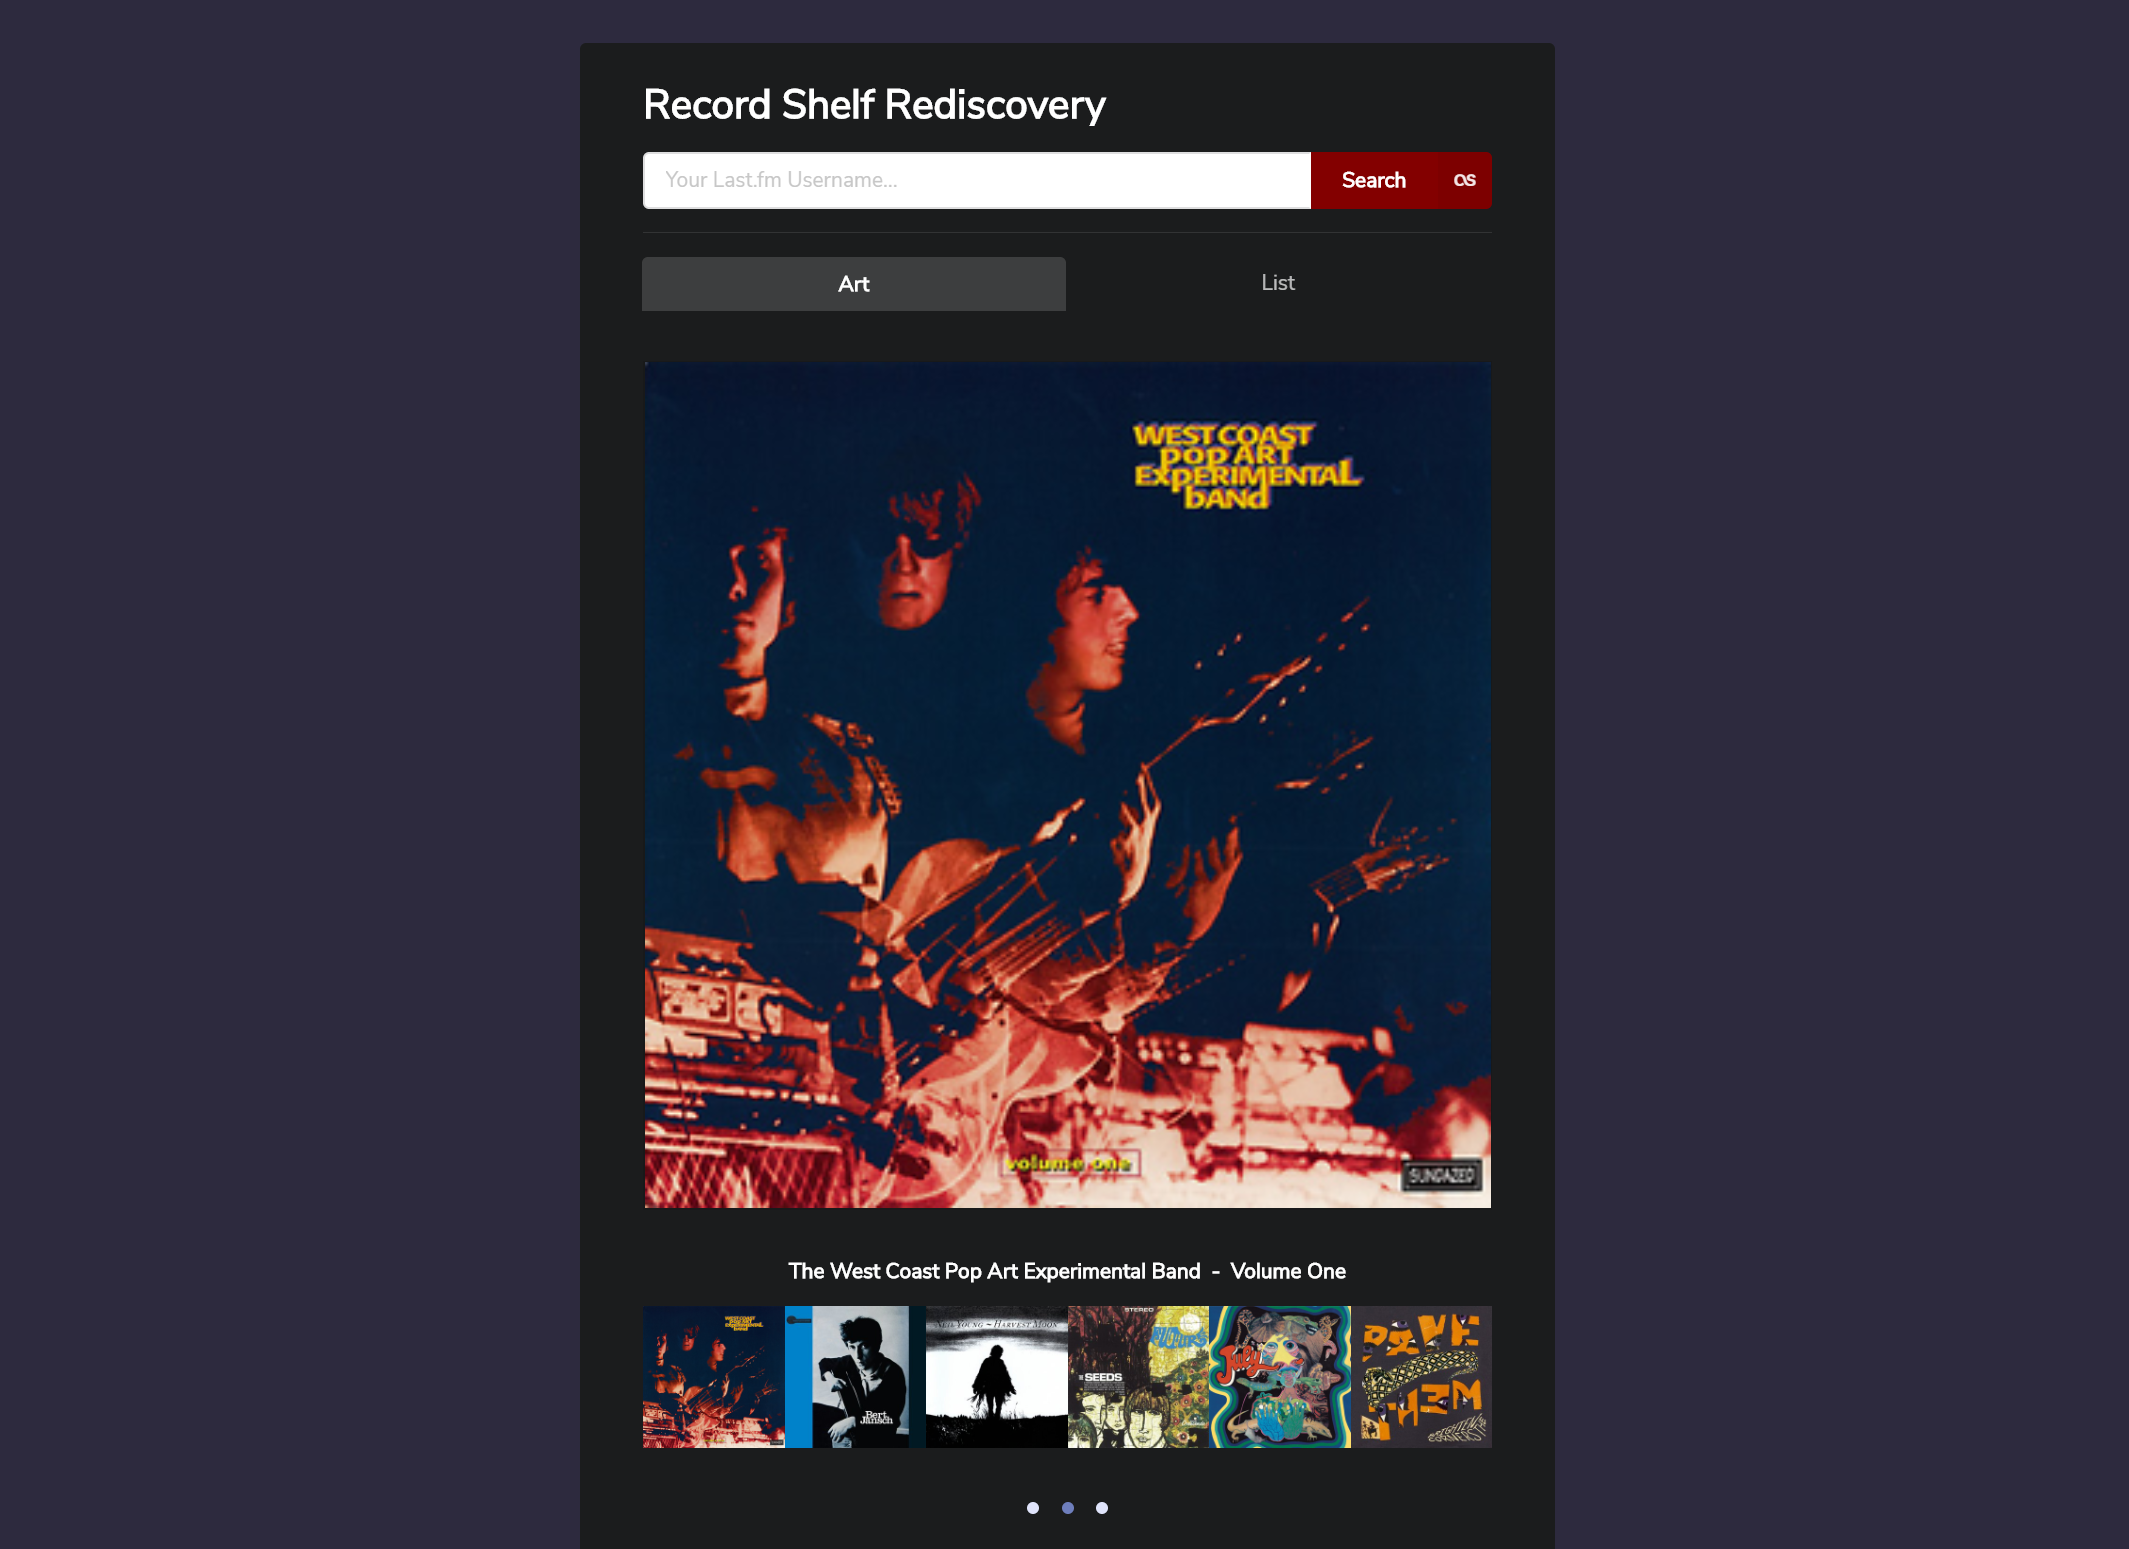
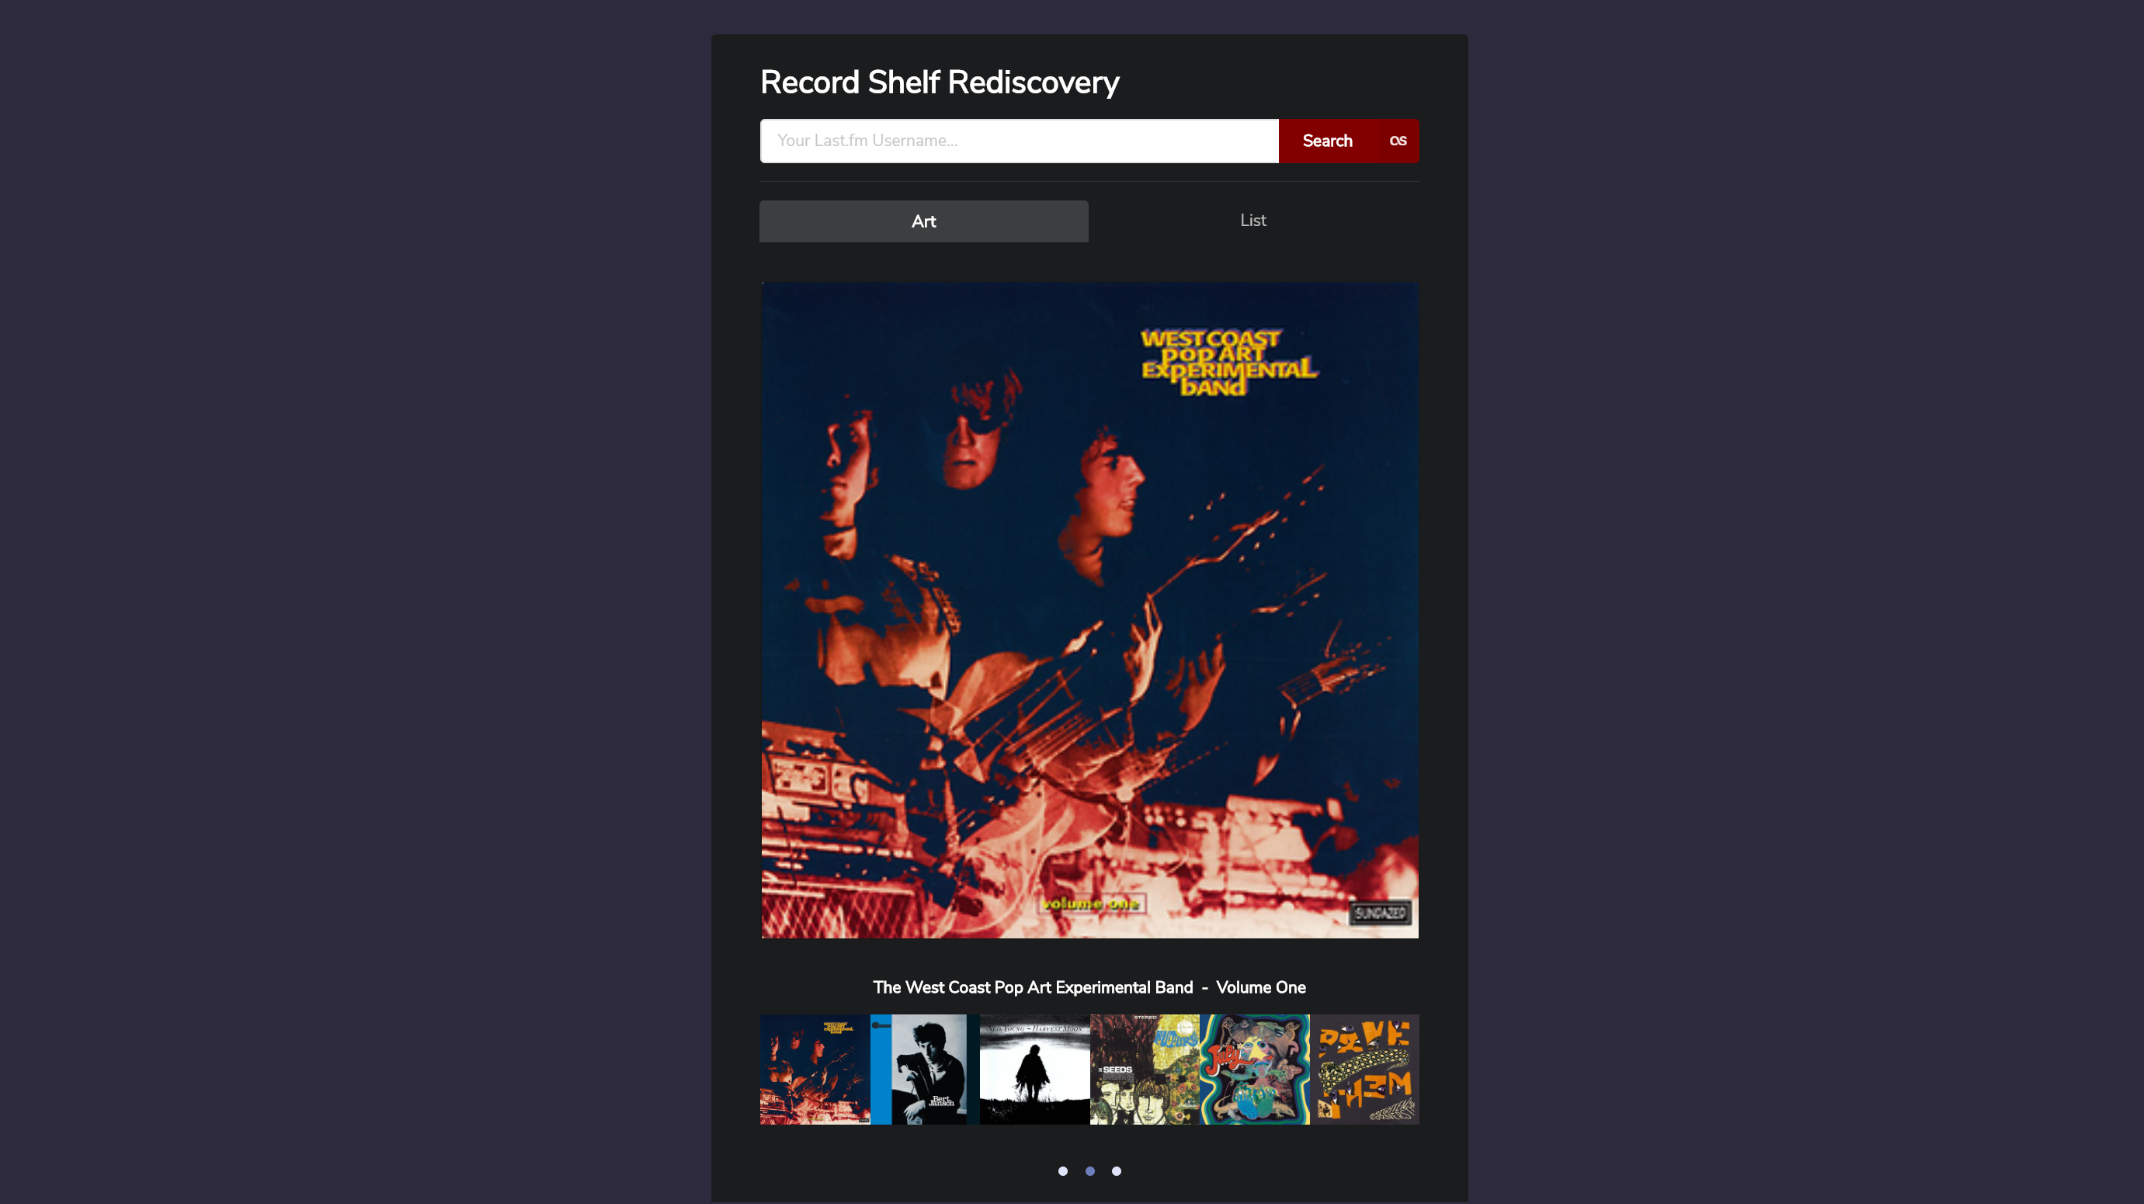
Adjust image hover behaviour. Adjust Music Rediscovery image size.

Changed region(s): [[0.248, 0.0307, 0.744, 1.0], [0.527, 0.2458, 0.651, 0.338], [0.496, 0.1537, 0.527, 0.2151]]

diff --git a/src/data/projects.js b/src/data/projects.js
@@ -4,8 +4,8 @@ export default [
     id: 'recordShelfRediscovery',
     date: '27/04/20',
     description: 'A simple project on the surface, for this React project I gained experience leveraging multiple existing APIs to create an app that is more than the sum of its parts. This has been an invaluable lesson in adapting my approaches to the shape of 3rd party incoming data.',
-    image: 'images/recordShelfRediscovery.png',
-    tech: ['React', 'Spotify API', 'Spotify', 'Web Playback SDK', 'Last.fm API', 'Semantic UI'],
+    image: '/images/recordShelfRediscovery.png',
+    tech: ['React', 'Spotify API', 'Spotify Web Playback SDK', 'Last.fm API', 'Semantic UI'],
     url: 'https://recordshelfrediscovery.herokuapp.com/',
     githubFE: 'https://github.com/tfox121/digitalRecordShelf',
   },
@@ -14,8 +14,8 @@ export default [
     id: 'subredditGame',
     date: '14/04/20',
     description: 'A full stack project using React and Redux with a Node/Express/MongoDB backend. On this project I really fleshed out my React/Redux knowledge as well as learning about WebSockets to allow seamless multiplayer, and LocalStorage to enable primitive session management. It was also my first time using Heroku for deployment.',
-    image: 'images/subredditGame.png',
-    tech: ['React', 'Redux', 'Node', 'Express', 'MongoDB', 'WebSocket'],
+    image: '/images/subredditGame.png',
+    tech: ['React', 'Redux', 'Node', 'Express', 'MongoDB', 'WebSocket', 'Semantic UI'],
     url: 'https://thesubredditgame.herokuapp.com/',
     githubFE: 'https://github.com/tfox121/theSubredditGame',
     githubBE: 'https://github.com/tfox121/theSubredditGameAPI',
@@ -25,7 +25,7 @@ export default [
     id: 'paceCalc',
     date: '20/02/20',
     description: 'A simple React tool I made for my partner after her favourite pace calculator went offline. It helped solidify what I\'d recently learnt in React and allowed me to implement it in a tight project.',
-    image: 'images/paceCalc.png',
+    image: '/images/paceCalc.png',
     tech: ['React', 'JavaScript'],
     url: 'https://tfox121.github.io/paceCalculator/',
     githubFE: 'https://github.com/tfox121/paceCalculator',
@@ -37,7 +37,7 @@ export default [
     id: 'contactForm',
     date: '16/11/19',
     description: 'My original portfolio\'s contact form handler, which I\'m re-using on here! I built a small back-end using AWS API Gateway connected to an AWS Lambda function using the Serverless framework to handle my contact form.',
-    image: 'images/nodeLambda.png',
+    image: '/images/nodeLambda.png',
     tech: ['Node', 'AWS', 'Serverless'],
     url: '',
     githubFE: 'https://github.com/tfox121/contactFormLambda',
@@ -47,7 +47,7 @@ export default [
     id: 'choroplethMap',
     date: '02/10/19',
     description: 'Part of the freeCodeCamp curriculum, this was one of the hardest data visualisation projects.',
-    image: 'images/choroplethMap.png',
+    image: '/images/choroplethMap.png',
     tech: ['d3', 'JavaScript'],
     url: 'https://tfox121.github.io/choroplethMap/',
     githubFE: 'https://github.com/tfox121/choroplethMap',
@@ -58,7 +58,7 @@ export default [
     id: 'anonMessageBoard',
     date: '21/09/19',
     description: 'Part of the freeCodeCamp curriculum this project helped me get a handle on http routing and REST conventions to build a basic API. I also built out a number of automated tests with Mocha/Chai and learnt how to use Helmet.js to protect my sites.',
-    image: 'images/anonMessageBoard.png',
+    image: '/images/anonMessageBoard.png',
     tech: ['Node', 'Express', 'MongoDB', 'Mocha', 'Helmet'],
     url: 'https://anonymous-message-board-api.herokuapp.com/',
     githubFE: 'https://github.com/tfox121/fcc-anonymous-message-board',
@@ -69,7 +69,7 @@ export default [
     id: 'toDoList',
     date: '15/08/19',
     description: 'For my first independent project I built a small to do list. Over the course of building it I learnt Nunjucks to use as a templating engine which allowed me to implement server-side rendering.',
-    image: 'images/toDoList.png',
+    image: '/images/toDoList.png',
     tech: ['Node', 'Express', 'Nunjucks', 'MongoDB', 'Bootstrap'],
     url: 'https://to-do-list-tf.herokuapp.com/',
     githubFE: 'https://github.com/tfox121/tfox121.github.io',

diff --git a/src/components/Project.jsx b/src/components/Project.jsx
@@ -1,6 +1,6 @@
 import React from 'react';
 import {
-  Button, Container, Grid, Header, Popup, Icon, Image, Modal, Reveal, Segment,
+  Button, Container, Grid, Header, Popup, Icon, Image, Modal, Segment,
 } from 'semantic-ui-react';
 
 import './Project.css';
@@ -76,30 +76,6 @@ const Project = (props, ref) => {
     return null;
   };
 
-  const MouseEnterHandler = () => {
-    if (ref) {
-      const imageNode = ref.current.querySelector('.ui.content > .image');
-      const node = ref.current.querySelector('.ui.reveal > div.ui.content.text');
-      if (imageNode) {
-        imageNode.style.filter = 'blur(2px)';
-        node.style.opacity = '1';
-        node.style.visibility = 'visible';
-      }
-    }
-  };
-
-  const MouseLeaveHandler = () => {
-    if (ref) {
-      const imageNode = ref.current.querySelector('.ui.content > .image');
-      const node = ref.current.querySelector('.ui.reveal > div.ui.content.text');
-      if (imageNode) {
-        imageNode.style.filter = 'blur(0)';
-        node.style.opacity = '0';
-        node.style.visibility = 'hidden';
-      }
-    }
-  };
-
   return (
     <div className="project section" id={id} ref={ref} style={{ backgroundColor: `${color}` }}>
       <Container text textAlign="center">
@@ -108,18 +84,14 @@ const Project = (props, ref) => {
         <Segment basic>
           <Modal
             trigger={(
-              <Reveal animated="fade" onMouseEnter={MouseEnterHandler} onMouseLeave={MouseLeaveHandler}>
-                <Reveal.Content className="text">
-                  <Segment className="image-text"><Header>{tech.join(' / ')}</Header></Segment>
-                </Reveal.Content>
-                <Reveal.Content>
-                  <Image src={image} alt="project" rounded bordered />
-                </Reveal.Content>
-              </Reveal>
+              <div className="image-container">
+                <Image src={process.env.PUBLIC_URL + image} alt="project" rounded bordered />
+                <div className="image-text"><Header>{tech.join(' / ')}</Header></div>
+              </div>
             )}
           >
             <Modal.Content image>
-              <Image wrapped src={image} alt="project" size="massive" />
+              <Image wrapped src={process.env.PUBLIC_URL + image} alt="project" size="massive" />
             </Modal.Content>
           </Modal>
         </Segment>

diff --git a/src/components/Project.css b/src/components/Project.css
@@ -2,46 +2,38 @@ div.button-text {
   opacity: 1;
 }
 
-li {
-  list-style: none;
-}
-
-.project.section .ui.fade.reveal div {
-  height: 100%;
-  width: 100%;
-}
-
-.ui.reveal > div.ui.content.text {
-  opacity: 0;
-  visibility: hidden;
+div.image-container > div.image-text {
   position: absolute;
-  z-index: 4 !important;
-  transition: visibility 300ms linear, opacity 300ms linear;
-}
-
-.ui.reveal > div.ui.content {
-  z-index: 2 !important;
-}
-
-div.ui.content .image {
-  transition: filter 200ms linear;
-}
-
-.project.section .ui.fade.reveal .text.content div.image-text {
-  border: none;
-  box-shadow: none;
-  background-color: rgb(0, 0, 0, 0.2);
-  -webkit-text-stroke: 0.01px rgb(201, 201, 201);
-  color: black;
-  font-size: 140%;
-}
-
-.project.section .ui.fade.reveal .text.content .header {
   display: flex;
-  flex-direction: column;
+  align-items: center;
   justify-content: center;
+  top: 0;
+  bottom: 0;
+  left: 0;
+  right: 0;
+  height: 100% - 0.7em;
+  width: 100% - 0.7em;
+  transition: 500ms ease;
+  opacity: 0;
+  margin: 0.75em;
+  padding: 1em;
+  background-color: rgb(0, 0, 0, 0.3);
+  font-size: 140%;
+  border-radius: 0.2em;
 }
 
-/* .project.section .ui.fade.reveal .hidden.content:hover {
-  filter: blur(4px);
-} */
+div.image-container > div.image-text > .ui.header {
+  color: white;
+}
+
+div.image-container:hover > div.image-text {
+  opacity: 1;
+}
+
+div.image-container img {
+  transition: filter 500ms ease;
+}
+
+div.image-container:hover > img {
+  filter: blur(1px);
+}

diff --git a/src/components/App.jsx b/src/components/App.jsx
@@ -1,5 +1,5 @@
 import React, {
-  createRef, useEffect, useLayoutEffect, useState,
+  createRef, useEffect, useState,
 } from 'react';
 import { Segment, Sidebar } from 'semantic-ui-react';
 import { useMediaQuery } from 'react-responsive';
@@ -33,23 +33,6 @@ const App = () => {
       Array(arrLength).fill().map((_, i) => refs[i] || createRef())
     ));
   }, [arrLength]);
-
-  useLayoutEffect(() => {
-    if (elRefs) {
-      setTimeout(() => {
-        const newHeights = [];
-        elRefs.slice(1, -1).forEach((ref) => {
-          const node = ref.current.querySelector('.ui.content .image-text');
-          const image = ref.current.querySelector('.ui.content .image');
-          if (image) {
-            newHeights.push([{ name: ref.current.id, height: image.height }]);
-            node.style.height = `${image.height}px`;
-          }
-        });
-      }, 0);
-    }
-  }, [elRefs]);
-
 
   const handleChange = () => {
     setVisible(!visible);
